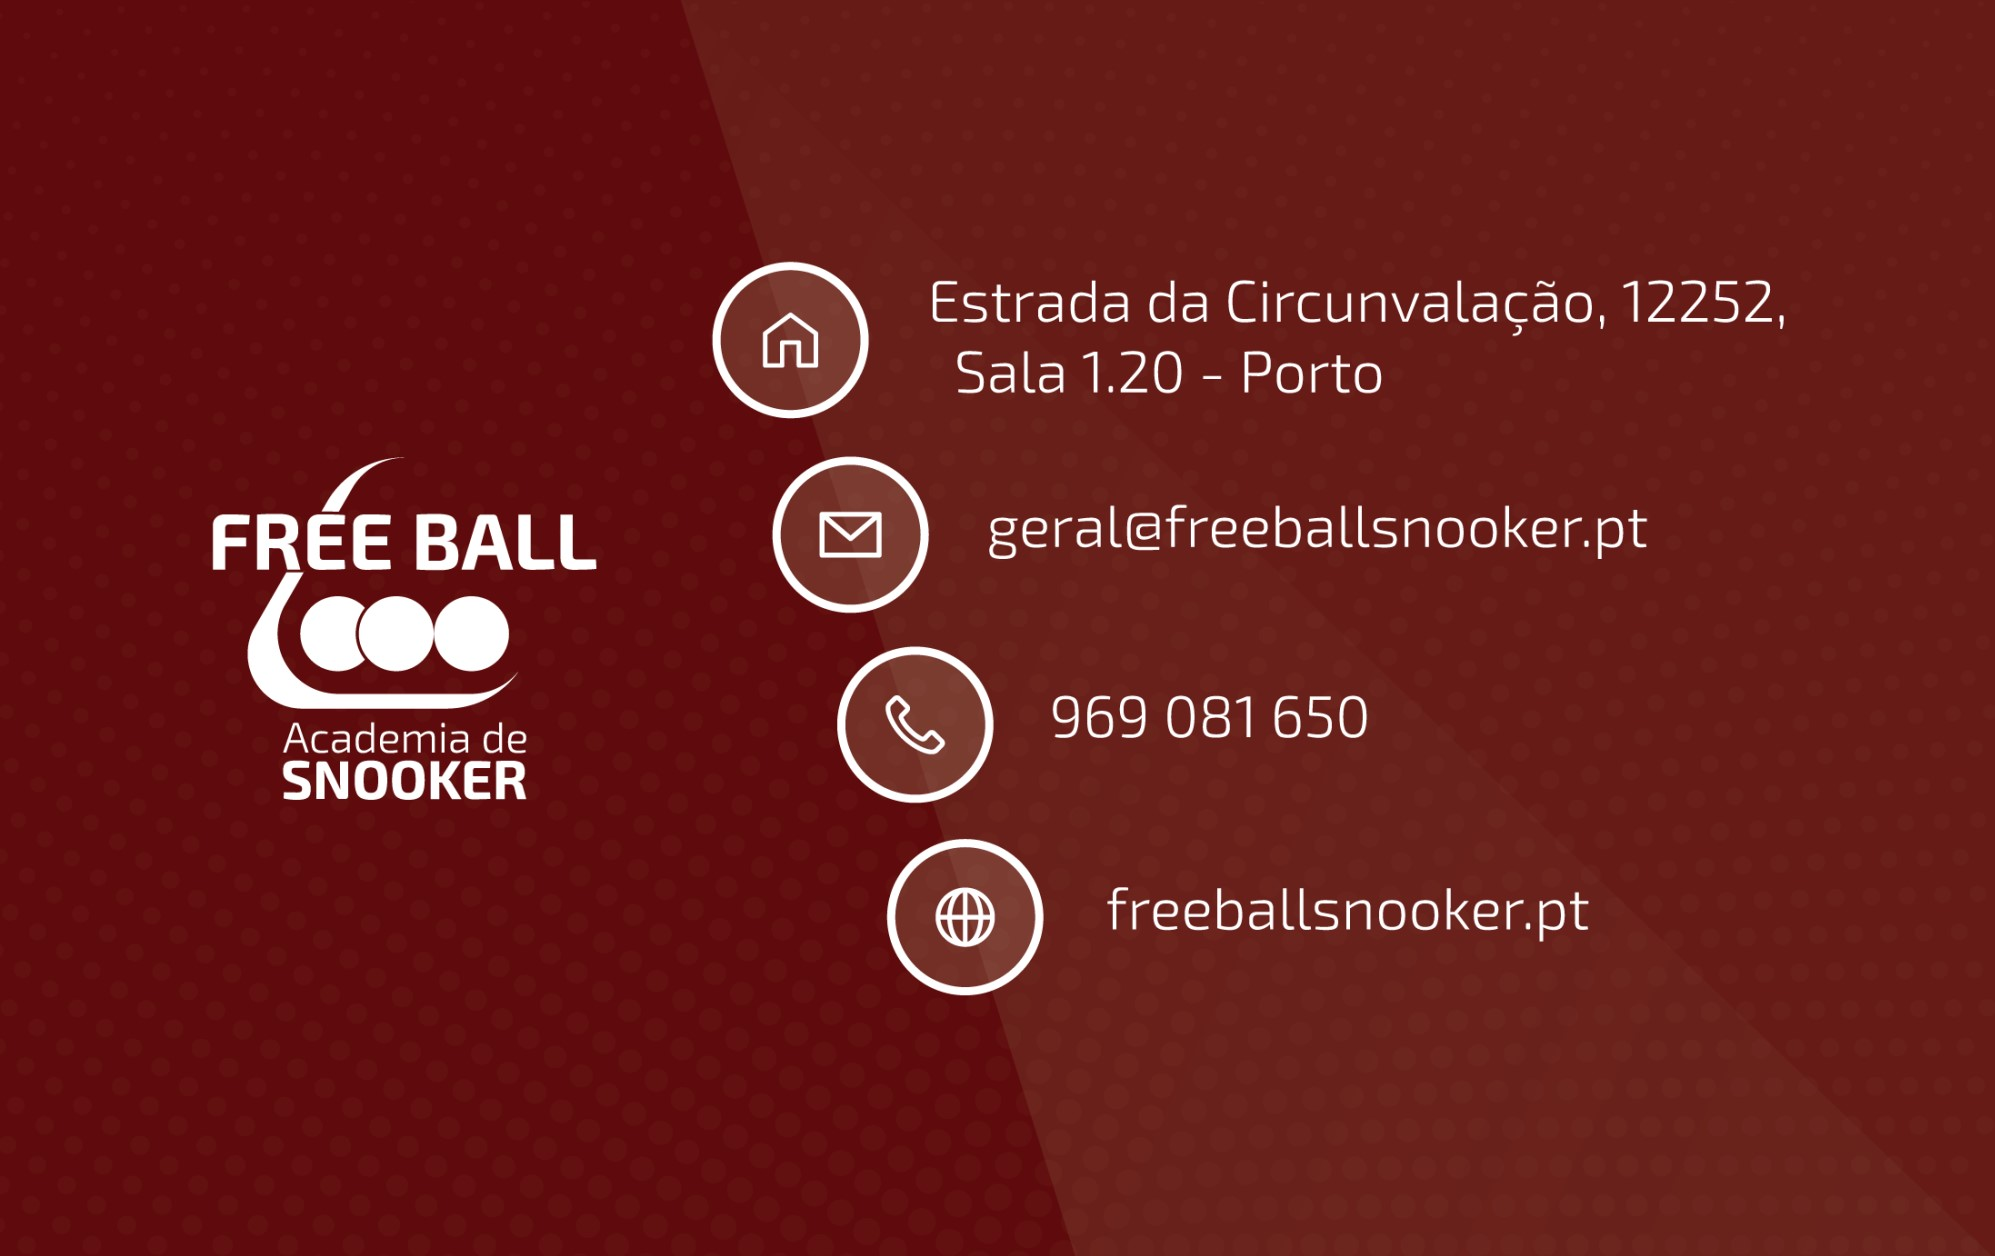
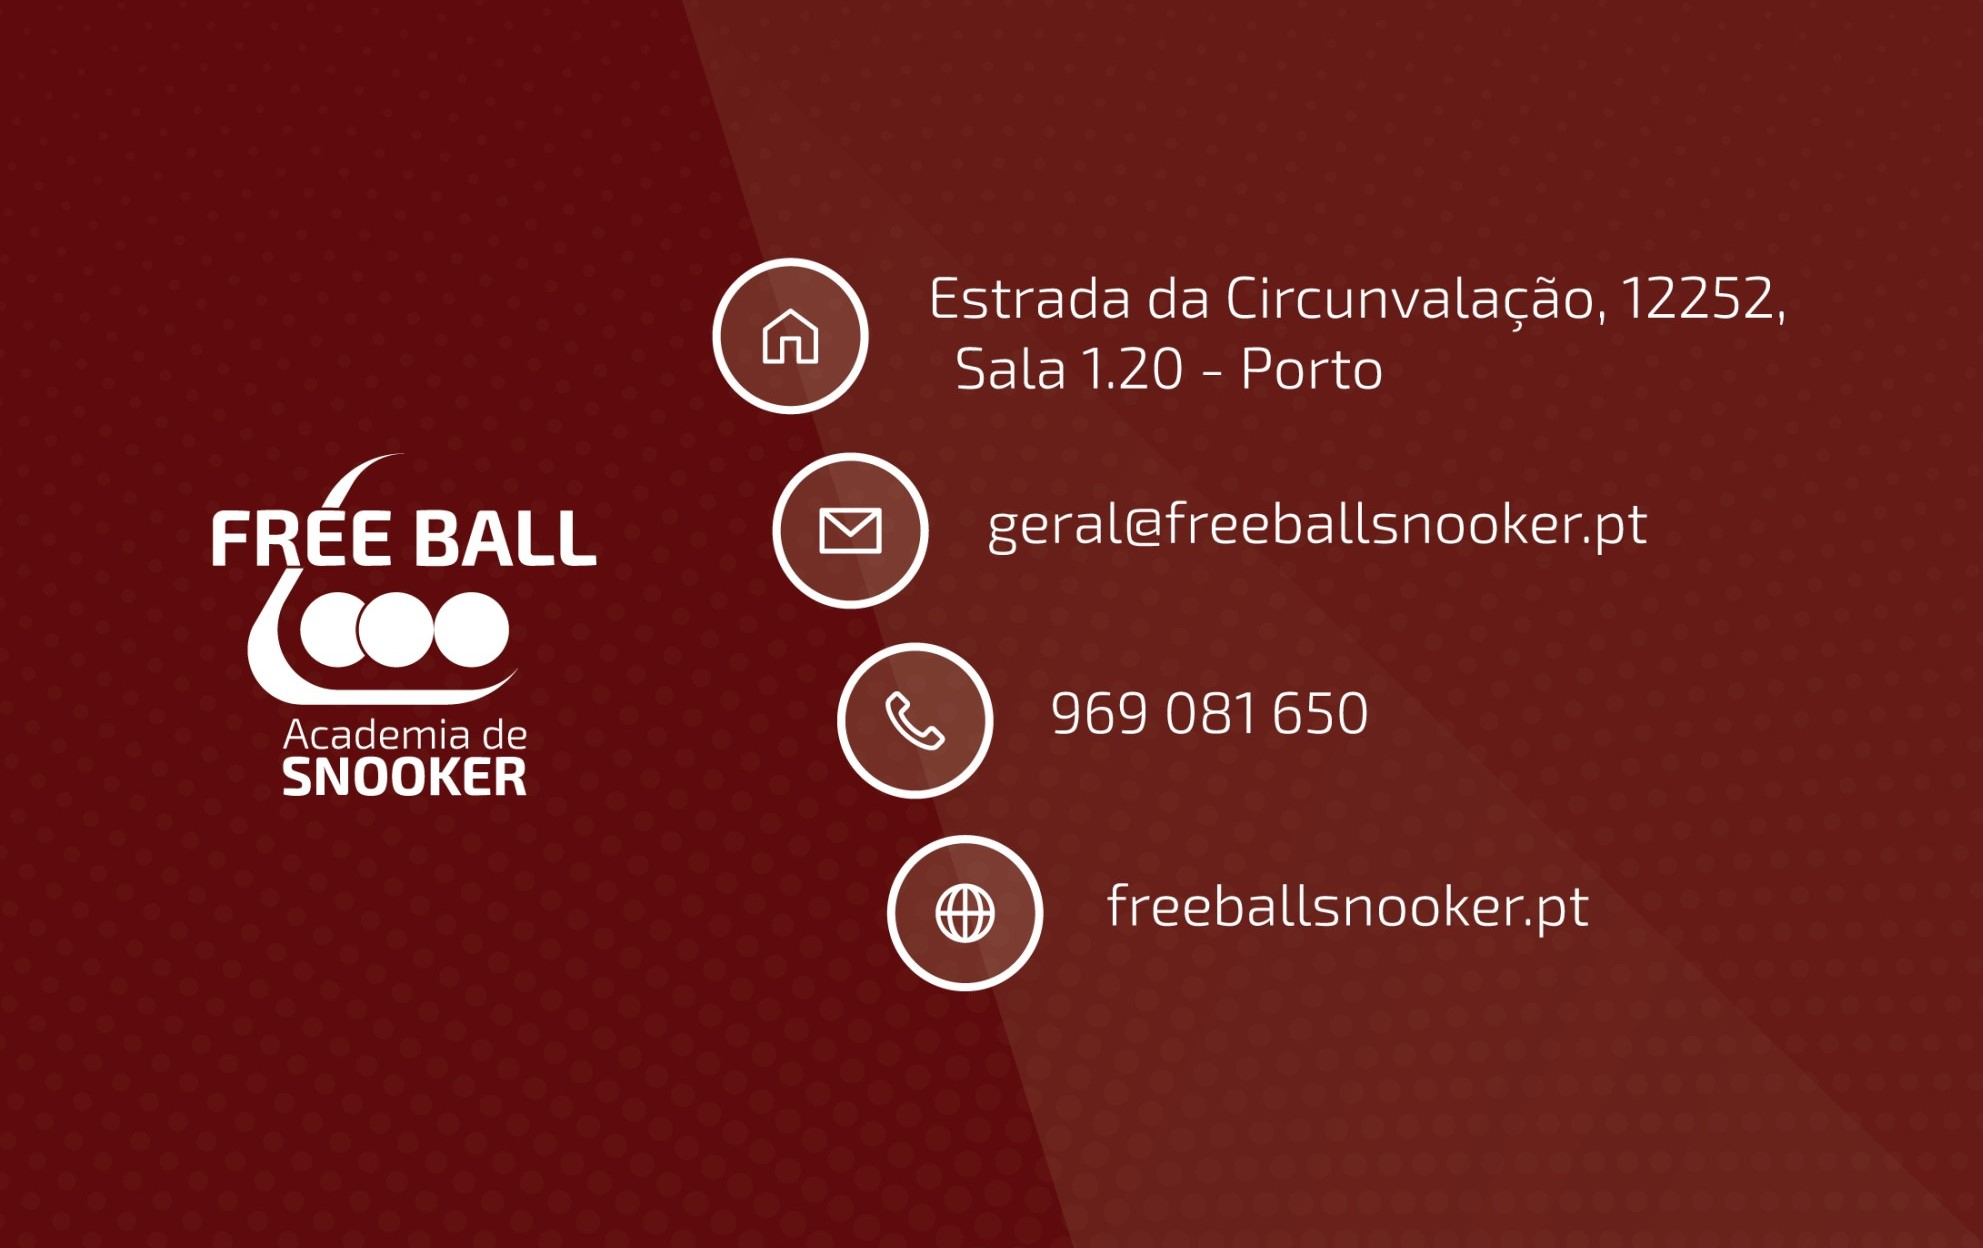
card

diff --git a/cards.html b/cards.html
@@ -104,7 +104,7 @@
                         </div><div class="carousel-item">
                             <img src="assets/images/cartofreeball1-2000x1259.jpg" alt="" title="">
                         </div><div class="carousel-item">
-                            <img src="assets/images/cartofreeball2-2000x1259.png" alt="" title="">
+                            <img src="assets/images/cartofreeball2-2000x1259.jpg" alt="" title="">
                         </div>
                     </div>
                     <a class="left carousel-control" role="button" data-slide="prev" href="#lb-gallery1-b">
